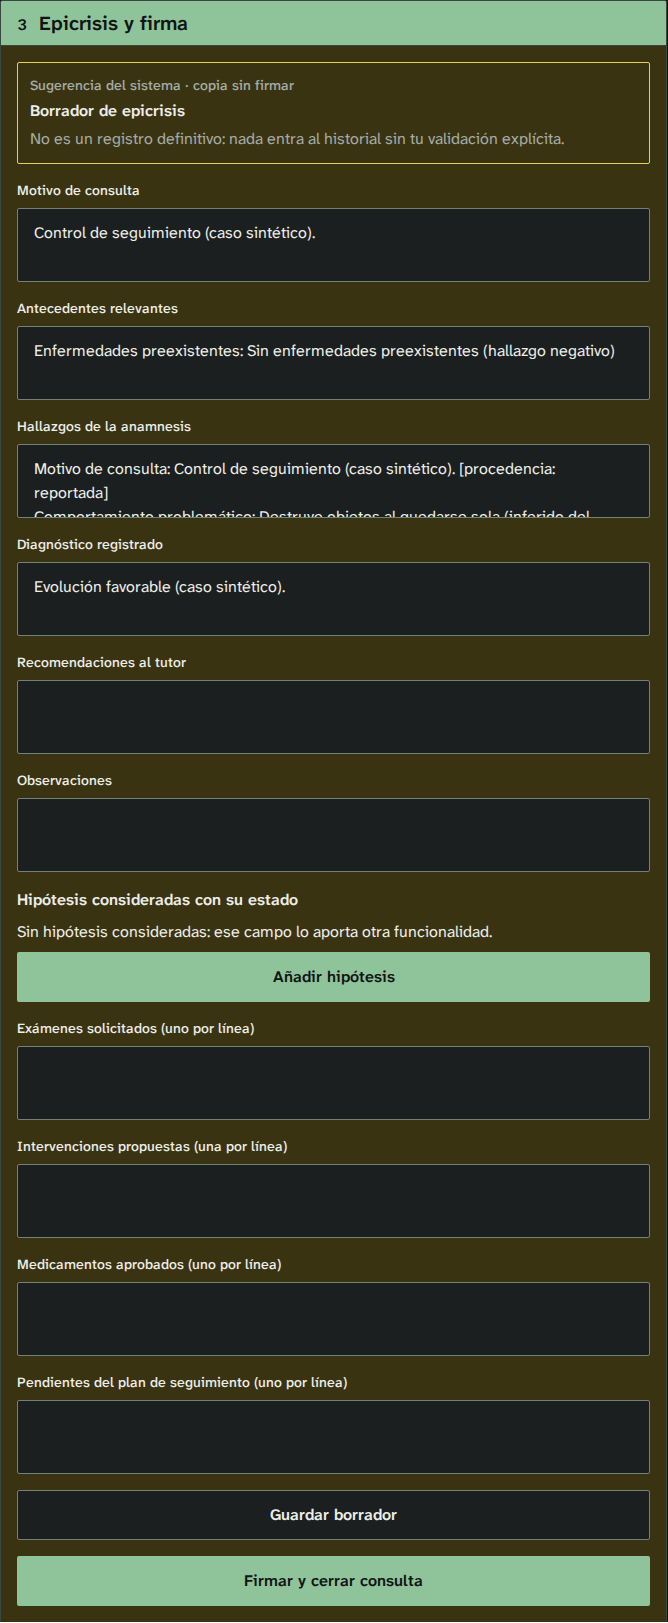
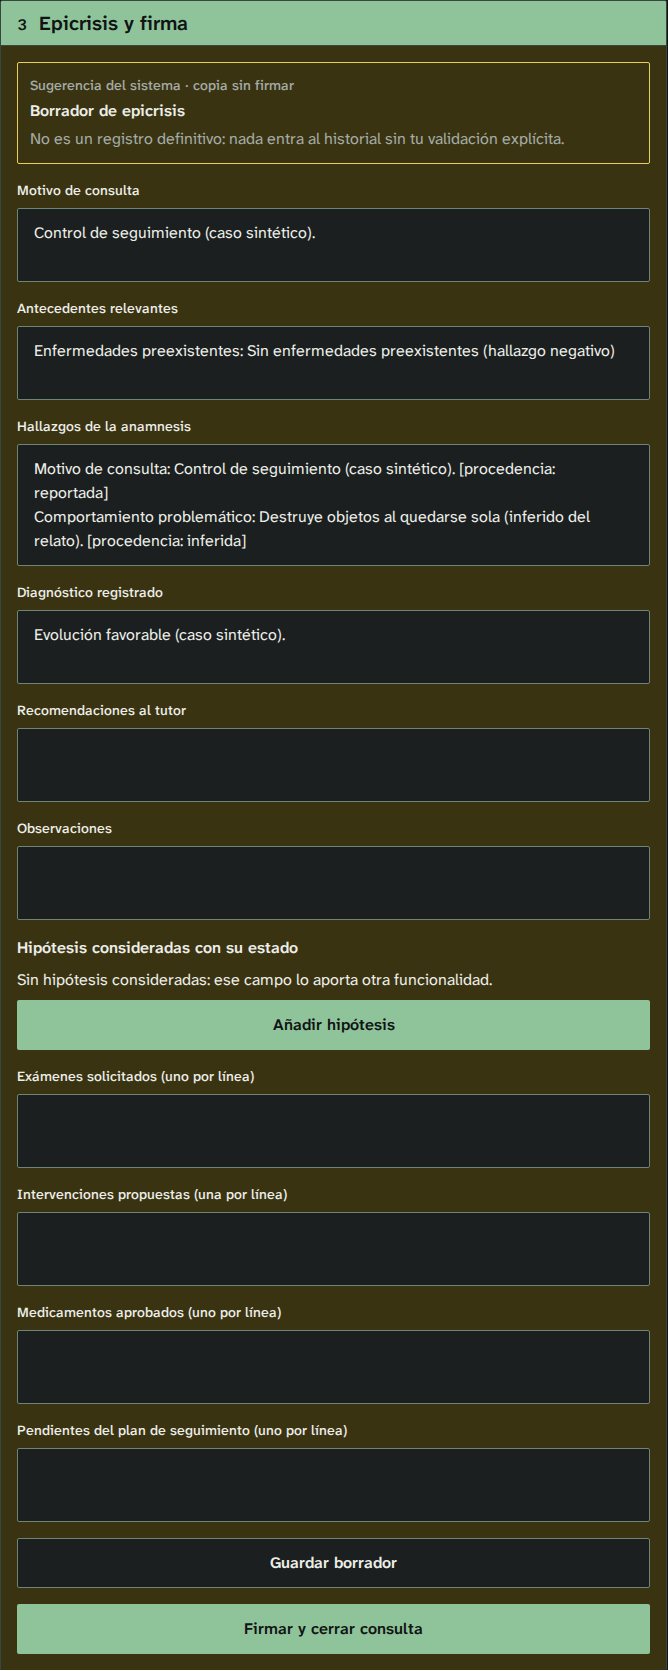
fix(ui): campos multilínea que crecen y atribución en línea (12.13)
El borrador de la epicrisis ya no esconde texto tras un desplazamiento
interno: los campos multilínea crecen desde min-h-textarea. La
atribución de lo recién guardado va junto al mensaje de la operación en
lugar de una firma suelta sobre el formulario.

Changed region(s): [[0.0, 0.0, 0.988, 0.801], [0.0299, 0.8318, 0.988, 0.9858]]

diff --git a/src/components/ui/input.tsx b/src/components/ui/input.tsx
@@ -1,4 +1,4 @@
-import type { Ref } from "react";
+import { type Ref, useState } from "react";
 import { TextInput, type TextInputProps, View, type ViewProps } from "react-native";
 import { useFormControl } from "@/components/ui/form-control";
 import { useThemeColors } from "@/theme/use-theme-colors";
@@ -23,9 +23,15 @@ export function Input({ className, style, ...props }: InputProps) {
 type InputFieldHandle = TextInput;
 export type InputFieldProps = TextInputProps & { className?: string; ref?: Ref<InputFieldHandle> };
 
-export function InputField({ className, style, ...props }: InputFieldProps) {
+// Relleno vertical de `py-3`: en web `contentSize` ya lo incluye (`scrollHeight`); en nativo no.
+const VERTICAL_PADDING = process.env.EXPO_OS === "web" ? 0 : 24;
+
+export function InputField({ className, style, onContentSizeChange, ...props }: InputFieldProps) {
   const { isInvalid } = useFormControl();
   const colors = useThemeColors();
+  // Un campo multilínea crece con su contenido desde su mínimo (`min-h-textarea`), para que el
+  // texto no quede oculto tras un desplazamiento interno (revisión final de D20).
+  const [contentHeight, setContentHeight] = useState<number | null>(null);
   return (
     <TextInput
       aria-invalid={isInvalid}
@@ -37,7 +43,17 @@ export function InputField({ className, style, ...props }: InputFieldProps) {
       placeholderTextColor={colors["muted-foreground"]}
       // Inline on purpose: on web, React Native Web's TextInput reset outranks a
       // `text-foreground` utility and left typed text at 2.53:1 (axe color-contrast).
-      style={[{ color: colors.foreground }, style]}
+      onContentSizeChange={(event) => {
+        if (props.multiline) {
+          setContentHeight(event.nativeEvent.contentSize.height + VERTICAL_PADDING);
+        }
+        onContentSizeChange?.(event);
+      }}
+      style={[
+        { color: colors.foreground },
+        props.multiline && contentHeight !== null ? { height: contentHeight } : null,
+        style,
+      ]}
       {...props}
     />
   );

diff --git a/src/app/(protected)/(patients)/consultations/[id].tsx b/src/app/(protected)/(patients)/consultations/[id].tsx
@@ -1,7 +1,7 @@
 import { useQuery, useQueryClient } from "@tanstack/react-query";
 import { useLocalSearchParams } from "expo-router";
 import { useCallback, useEffect, useState } from "react";
-import { Animated, StyleSheet } from "react-native";
+import { Animated, StyleSheet, View } from "react-native";
 import { AttributionBadge } from "@/components/clinical/attribution-badge";
 import { CorrectionHistory } from "@/components/clinical/correction-history";
 import { CorrectionLine } from "@/components/clinical/correction-line";
@@ -596,10 +596,12 @@ export default function ConsultationScreen() {
             tutorName={data.header.tutorName}
           />
           {/* Mensajes de las operaciones; el estado de la consulta va en el encabezado (D20). */}
-          <Text accessibilityLiveRegion="polite" testID="consultation-status">
-            {status ?? ""}
-          </Text>
-          {savedAttribution ? <AttributionBadge attribution={savedAttribution} /> : null}
+          <View className="flex-row flex-wrap items-baseline gap-x-2">
+            <Text accessibilityLiveRegion="polite" testID="consultation-status">
+              {status ?? ""}
+            </Text>
+            {savedAttribution ? <AttributionBadge attribution={savedAttribution} inline /> : null}
+          </View>
           {/*
            * Dos columnas desde `lg` (design.md D9): el contexto de solo lectura va primero en el
            * DOM —como en móvil, donde precede a la anamnesis— y a la derecha en escritorio. Al no

diff --git a/tests/unit/clinical/correction-line.test.tsx b/tests/unit/clinical/correction-line.test.tsx
@@ -12,6 +12,7 @@ mock.module("@/features/clinical/use-veterinarian-display-name", () => ({
 const { CorrectionLine, ProvenanceCorrection } = await import(
   "@/components/clinical/correction-line"
 );
+const { AttributionBadge } = await import("@/components/clinical/attribution-badge");
 
 const render = (node: ReactNode) =>
   renderToStaticMarkup(
@@ -120,5 +121,26 @@ describe("ProvenanceCorrection", () => {
   test("junto al código vigente", () => {
     expect(html).toContain('aria-label="Procedencia: Reportada"');
     expect(html.indexOf("Inferida")).toBeLessThan(html.indexOf("Procedencia: Reportada"));
+  });
+});
+
+// Revisión final de D20: lo recién guardado se atribuye en la línea del mensaje, no como firma
+// suelta sobre el formulario.
+describe("AttributionBadge en línea", () => {
+  const html = render(
+    <AttributionBadge
+      attribution={{ actorId: "v2", occurredAt: "2026-09-30T10:00:00Z", action: null }}
+      inline
+    />,
+  );
+
+  test("dice quién y cuándo en una línea de texto", () => {
+    expect(html).toContain("Por Dr. Bruno Soto");
+    expect(html).toMatch(/font-mono[^>]*>\d{2}-\d{2}-2026/);
+  });
+
+  test("no es una línea de firma ni cuenta como insignia de un registro", () => {
+    expect(html).not.toContain("border-t");
+    expect(html).not.toContain('data-testid="attribution-badge"');
   });
 });

diff --git a/src/components/clinical/attribution-badge.tsx b/src/components/clinical/attribution-badge.tsx
@@ -6,19 +6,33 @@ import type { Attribution } from "@/lib/attribution/types";
 
 /**
  * Autor y momento de un registro. `approved` marca contenido aprobado (una sugerencia confirmada o
- * la epicrisis firmada), que se muestra como timbre de firma (FR-076 · D20).
+ * la epicrisis firmada), que se muestra como timbre de firma (FR-076 · D20). `inline` es la
+ * atribución de lo recién guardado, en la línea del mensaje de la operación (aclaración de D20).
  */
 export function AttributionBadge({
   attribution,
   approved = false,
+  inline = false,
 }: {
   attribution: Attribution;
   approved?: boolean;
+  inline?: boolean;
 }) {
   const { data: displayName } = useVeterinarianDisplayName(attribution.actorId);
   // Never fall back to the raw uuid: an attribution has to name a person (US12/AC2).
   const actor = displayName ?? "Profesional de la clínica";
   const occurredAt = new Date(attribution.occurredAt).toLocaleString("es-CL");
+
+  if (inline) {
+    return (
+      <Text tone="muted">
+        {`Por ${actor} · `}
+        <Text tone="muted" variant="data">
+          {occurredAt}
+        </Text>
+      </Text>
+    );
+  }
 
   if (approved) {
     return <SignatureStamp actor={actor} occurredAt={occurredAt} testID="attribution-badge" />;

diff --git a/tests/e2e/web/consulta-formulario.spec.ts b/tests/e2e/web/consulta-formulario.spec.ts
@@ -94,6 +94,25 @@ test.describe("consulta como formulario", () => {
     });
   }
 
+  // Revisión final de D20: el borrador se lee entero antes de firmarlo.
+  test("un campo largo del borrador crece y no esconde texto", async ({ page }) => {
+    const { api, patientId, crear } = await prepararPaciente(page, "Nieve E2E campo largo");
+    try {
+      const consultationId = await crear("consultation", { patientId, status: "open" });
+      await page.goto(`/consultations/${consultationId}`);
+      await page.getByRole("button", { name: "Generar borrador de epicrisis" }).click();
+      const campo = page.getByLabel("Observaciones", { exact: true });
+      await campo.fill(
+        Array.from({ length: 12 }, (_, i) => `Línea ${i + 1} de observación`).join("\n"),
+      );
+      await expect
+        .poll(() => campo.evaluate((el) => el.scrollHeight - el.clientHeight))
+        .toBeLessThanOrEqual(1);
+    } finally {
+      await api.dispose();
+    }
+  });
+
   // US18-AC4 · FR-099: con Reduce Motion, el timbre aparece sin animación y el pliego se va.
   test("al firmar con movimiento reducido, el timbre aparece de inmediato y el pliego desaparece", async ({
     page,

diff --git a/openspec/changes/sistema-visual/quickstart.md b/openspec/changes/sistema-visual/quickstart.md
@@ -1181,3 +1181,16 @@ y `accessibility` (12/12).
 - **Verificación:** unitarias 893/893; `chromium` 64/64 en la suite completa; `chromium-dark`
   12/12. `evidencia/12.10-*` se volvió a capturar: las tres secciones entran a 1440×2600 y la
   banda 3 está activa con borrador.
+
+### 12.13 — Segunda revisión final
+
+- **Campos multilínea:** crecen con su contenido desde `min-h-textarea`. El e2e
+  `consulta-formulario` («un campo largo del borrador…») falló primero con 240 px ocultos;
+  ahora 0.
+  - En web crecen pero no encogen al borrar, porque `scrollHeight` no baja de la altura fijada.
+  - En nativo, el relleno se suma a mano (`contentSize` no lo incluye). Queda **pendiente de
+    dispositivo**.
+- **Atribución de lo recién guardado:** va en la línea del mensaje de la operación
+  («Por Dra. X · fecha», `AttributionBadge inline`), con prueba de componente en rojo primero.
+- **Verificación:** unitarias 895/895; `chromium` 65/65 en la suite completa; `chromium-dark`
+  12/12; `evidencia/12.10-*` capturada de nuevo.

diff --git a/openspec/changes/sistema-visual/tasks.md b/openspec/changes/sistema-visual/tasks.md
@@ -331,3 +331,10 @@ commit con sus pruebas en verde.
   Verificación: pruebas de componente, `consulta-formulario`, `registro-epicrisis`, `auth` y
   `accessibility` en verde (`chromium` y `chromium-dark`), y capturas nuevas en
   `evidencia/12.10-*`.
+- [x] 12.13 Segunda revisión final (decisión del usuario del 2026-09-30), con prueba en rojo
+  primero:
+  - los campos multilínea crecen con el contenido (el borrador de la epicrisis se cortaba);
+  - la atribución de lo recién guardado va junto al mensaje de la operación y no suelta.
+  Verificación: e2e del campo largo sin desplazamiento interno, prueba de componente de la
+  atribución en línea, `auth`, `registro-epicrisis`, `consulta-formulario` y `accessibility` en
+  verde, y capturas nuevas.

diff --git a/openspec/changes/sistema-visual/design.md b/openspec/changes/sistema-visual/design.md
@@ -763,6 +763,11 @@ lúdico (sin patitas ni ilustraciones de perros), y ningún degradado, destello 
   - los mensajes de las operaciones siguen en su región viva;
   - se retira «Ver ficha del paciente», que repetía «Volver a la ficha» de `Screen` (D12).
 
+- **Campos multilínea:** crecen con su contenido desde el mínimo `min-h-textarea`, para que el
+  borrador se lea entero antes de firmarlo.
+- **Atribución de lo recién guardado:** va en la misma línea que el mensaje de la operación
+  («Por Dra. X · fecha»), no como firma suelta sobre el formulario. Cada registro conserva la suya.
+
 **Alternativas descartadas** en la ronda de direcciones:
 
 - «Etograma» (grilla de registro etológico): la más obvia para la categoría y densa para el
